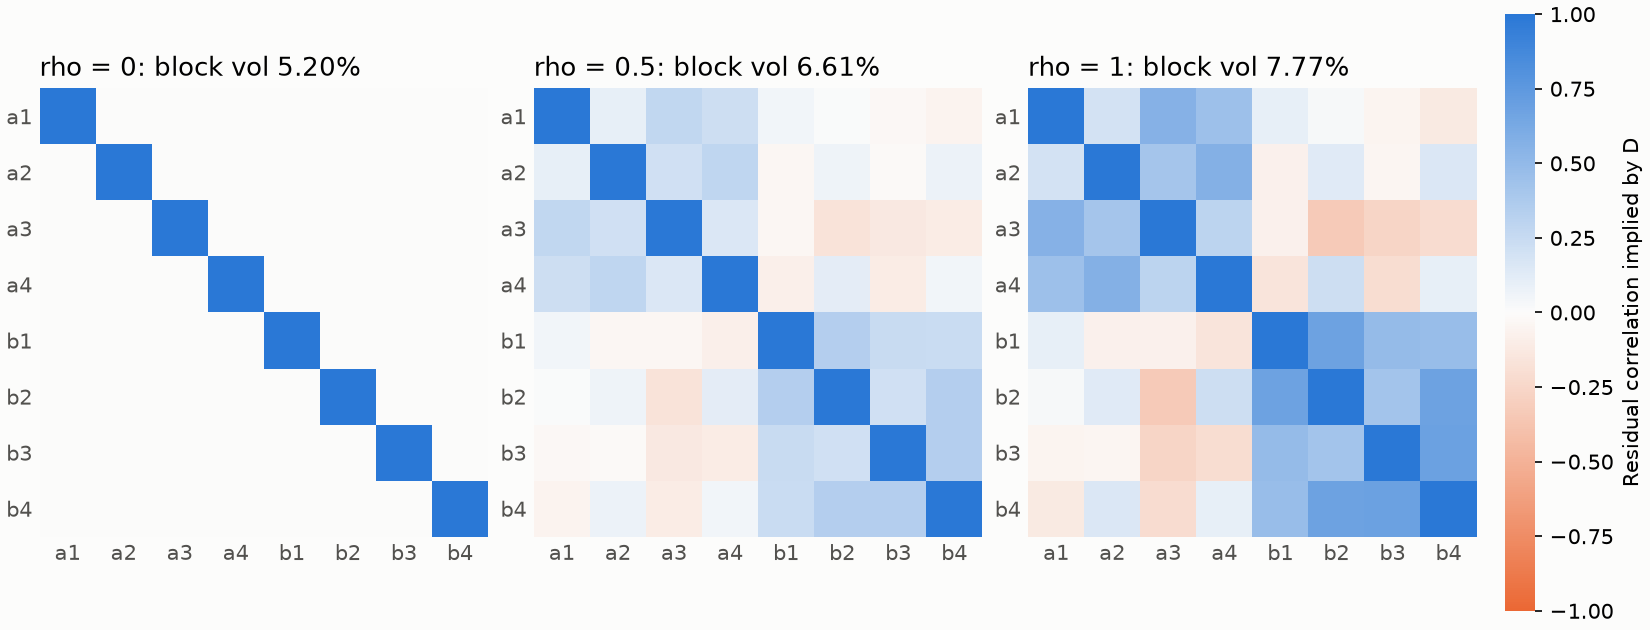
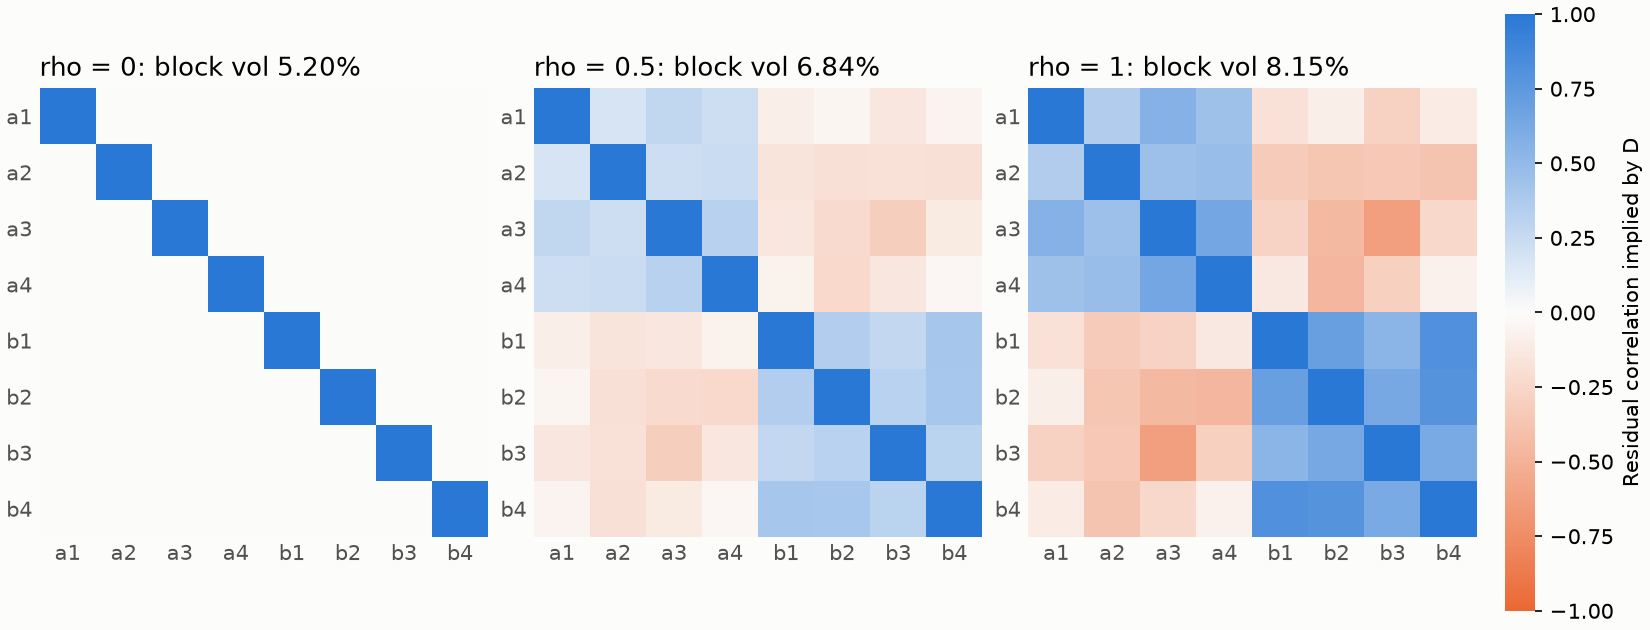
Stabilize documentation examples across supported platforms

diff --git a/examples/docs/empirical_residual_correlation.py b/examples/docs/empirical_residual_correlation.py
@@ -28,7 +28,10 @@ def make_residuals(seed: int = SEED) -> tuple[pd.DataFrame, pd.DataFrame]:
     rng = np.random.default_rng(seed)
     block = np.full((4, 4), WITHIN_BLOCK) + (1.0 - WITHIN_BLOCK) * np.eye(4)
     corr = np.kron(np.eye(2), block)
-    draws = rng.multivariate_normal(np.zeros(8), RESIDUAL_VOL**2 * corr, size=N_MONTHS)
+    # Cholesky fixes the basis when the equicorrelation blocks have repeated eigenvalues.
+    draws = rng.multivariate_normal(
+        np.zeros(8), RESIDUAL_VOL**2 * corr, size=N_MONTHS, method="cholesky",
+    )
     dates = pd.date_range("2016-01-31", periods=N_MONTHS, freq="ME")
     residuals = pd.DataFrame(draws, index=dates, columns=NAMES)
     metadata = pd.DataFrame({"frequency": "ME", "beta_span": float(BETA_SPAN),
@@ -134,8 +137,8 @@ def main() -> None:
 
     # quoted values
     assert round(prepared.span, 1) == 12.0
-    assert [round(within, 2), round(across, 2)] == [0.41, -0.05]
-    assert [round(100 * portfolio[rho], 2) for rho in RHOS] == [5.2, 6.61, 7.77]
+    assert [round(within, 2), round(across, 2)] == [0.49, -0.29]
+    assert [round(100 * portfolio[rho], 2) for rho in RHOS] == [5.2, 6.84, 8.15]
 
 
 if __name__ == "__main__":

diff --git a/examples/docs/cluster_stability_and_pooled_scoring.py b/examples/docs/cluster_stability_and_pooled_scoring.py
@@ -117,7 +117,7 @@ def main() -> None:
     mean_w = stats.w_i.mean()
     print(mean_w.round(2).to_dict())
     print(boundary[["mean_w_reassigned", "mean_w_stable", "reassignment_rate_bottom_w_quartile",
-                    "reassignment_rate_top_w_quartile"]].round(2).to_dict())
+                    "reassignment_rate_top_w_quartile"]].astype(float).round(2).to_dict())
     switches = (membership != membership.shift()).iloc[1:].sum()
     moved = switches[NAMES[:12]]
     assert moved.sum() == 2 and moved["c3"] == 2             # c3 strays for two months only

diff --git a/examples/docs/app_sign_pooling_genomics.py b/examples/docs/app_sign_pooling_genomics.py
@@ -55,7 +55,7 @@ def cluster_table(clusters: pd.DataFrame) -> pd.DataFrame:
         counts = members["module"].value_counts()
         rows[cluster] = {"genes": len(members), "dominant": counts.index[0],
                          "purity": counts.iloc[0] / len(members)}
-    return pd.DataFrame(rows).T
+    return pd.DataFrame.from_dict(rows, orient="index")
 
 
 def main() -> None:

diff --git a/docs/empirical_residual_correlation.md b/docs/empirical_residual_correlation.md
@@ -92,8 +92,9 @@ The canonical script
 [`examples/docs/empirical_residual_correlation.py`](../examples/docs/empirical_residual_correlation.py)
 simulates monthly residuals from January 2016 to February 2026 for eight responses in two blocks
 of four, correlated at 0.5 within a block and not across, with 3% monthly volatility; one response
-stores its residuals in percent. The fit date is 28 February 2026, and the correlation is
-estimated on a quarterly grid:
+stores its residuals in percent. A Cholesky factor fixes the synthetic draw's covariance
+basis across platforms. The fit date is 28 February 2026, and the correlation is estimated
+on a quarterly grid:
 
 ```python
 def estimate(residuals: pd.DataFrame, metadata: pd.DataFrame) -> fl.ResidualCorrelationData:
@@ -105,8 +106,8 @@ def estimate(residuals: pd.DataFrame, metadata: pd.DataFrame) -> fl.ResidualCorr
 
 The monthly span of 36 becomes 12.0 quarters. The observation date is 31 December 2025, the last
 complete quarter, and the correlation is available from 28 February 2026; a request for 31
-January raises. The estimate uses 40 quarters, including the anchor. Its mean correlation is 0.41
-within block $a$, against 0.5 in the population, and $-0.05$ across the blocks; 39 centred
+January raises. The estimate uses 40 quarters, including the anchor. Its mean correlation is 0.49
+within block $a$, against 0.5 in the population, and $-0.29$ across the blocks; 39 centred
 quarters with a 12-quarter span leave that much sampling error. The script reproduces the matrix
 from quarterly sums and pandas EWMA means with explicit weights, and confirms that a single missing
 month fails the estimate.
@@ -116,8 +117,8 @@ The residual block, assembled with annual variances of $12 \times 0.03^2$:
 | Retention $\rho$ | Off-diagonal entries | Residual volatility of an equal-weight portfolio of block $a$ |
 |---|---|---|
 | 0 | Zero: the orthogonal block exactly | 5.20% |
-| 0.5 | Half the correlation | 6.61% |
-| 1 | The full correlation | 7.77% |
+| 0.5 | Half the correlation | 6.84% |
+| 1 | The full correlation | 8.15% |
 
 The diagonal is the stored variance, bit for bit, at every $\rho$, and every block is positive
 definite. The script checks each block against $S[(1 - \rho) I + \rho R]S$ computed by NumPy.
@@ -156,7 +157,7 @@ python examples/docs/empirical_residual_correlation.py
 - **The retention is a policy weight.** $\rho$ is chosen, not estimated. It shrinks the estimated
   correlation toward zero, and with it the concentration penalty a portfolio pays.
 - **Sampling error is large on coarse grids.** Few common periods and a short span make $R$
-  noisy, as the example's 0.41 against 0.5 shows; partial retention limits the damage.
+  noisy, as the example's across-block mean of $-0.29$ shows; partial retention limits the damage.
 - **Strict data rules.** Gaps, non-nested periods and fewer than two complete common periods fail
   rather than degrade silently; the caller decides which responses to exclude.
 
